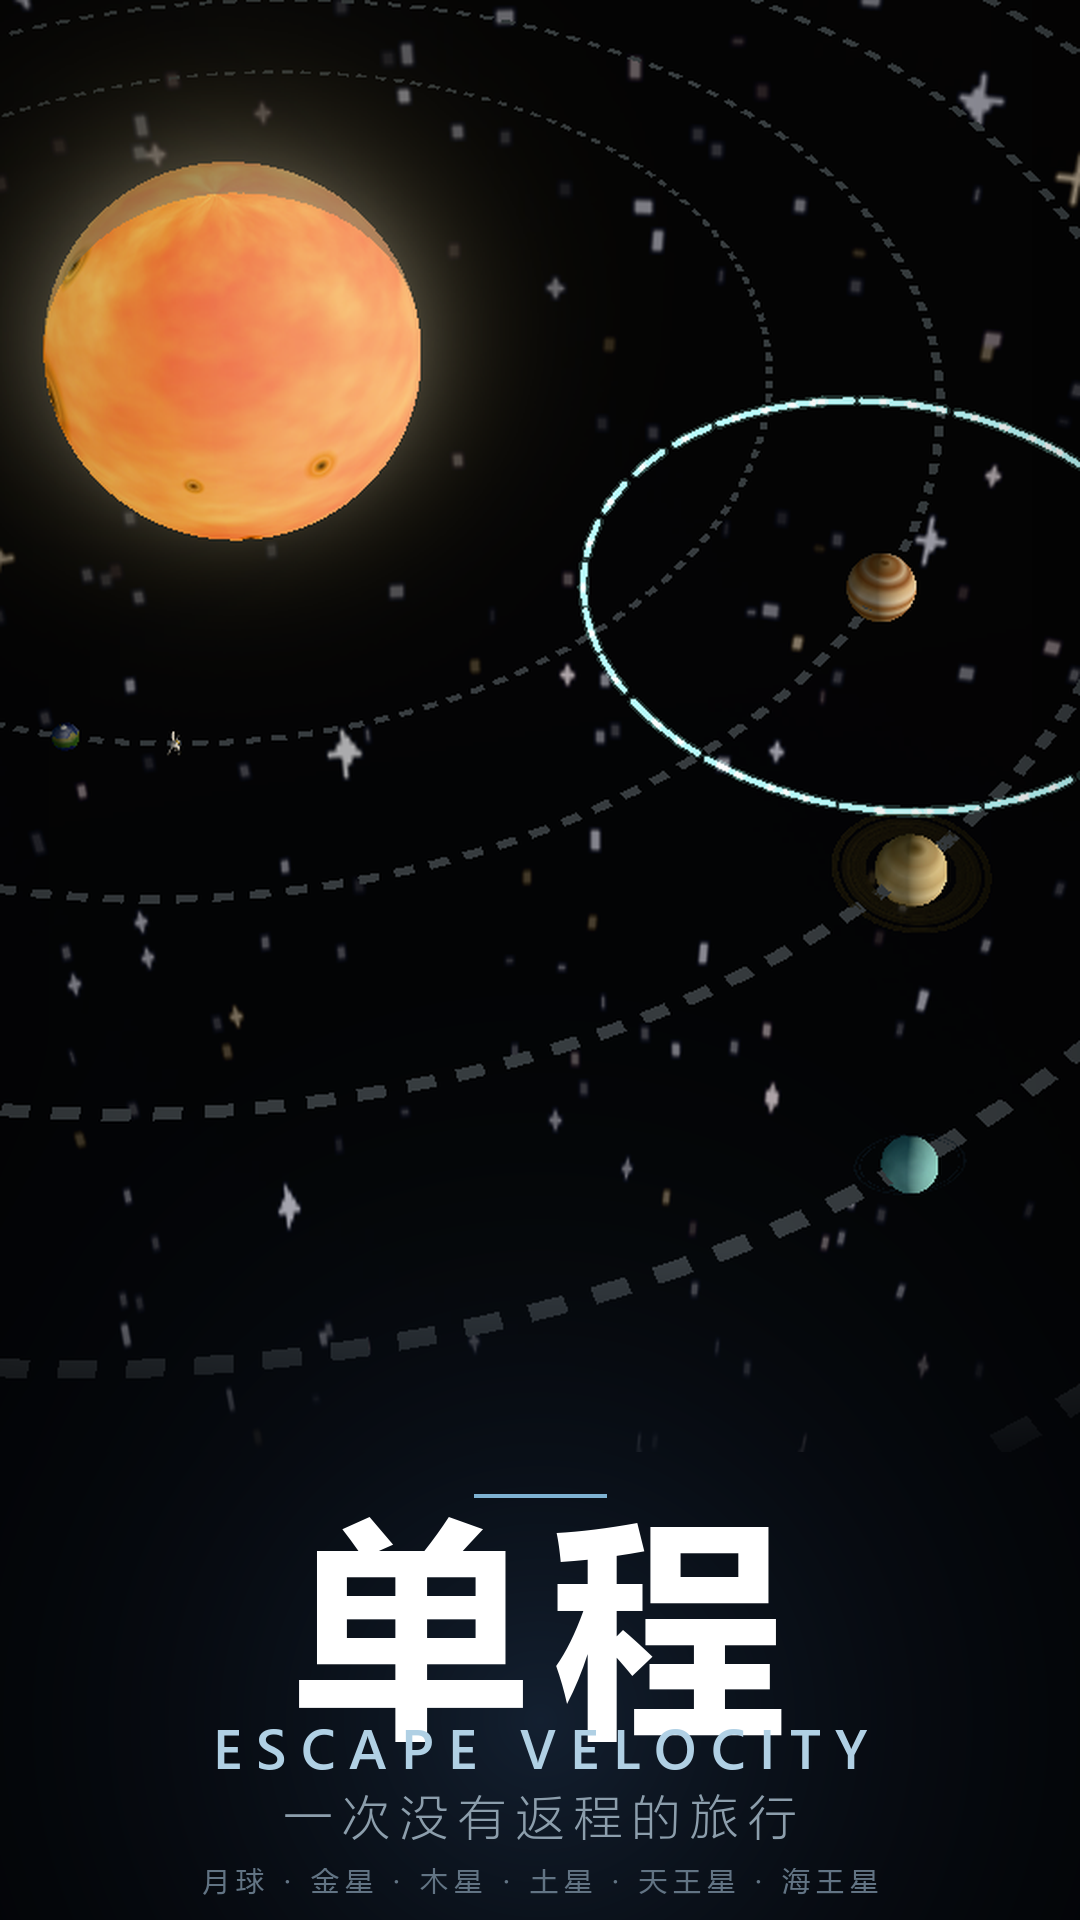
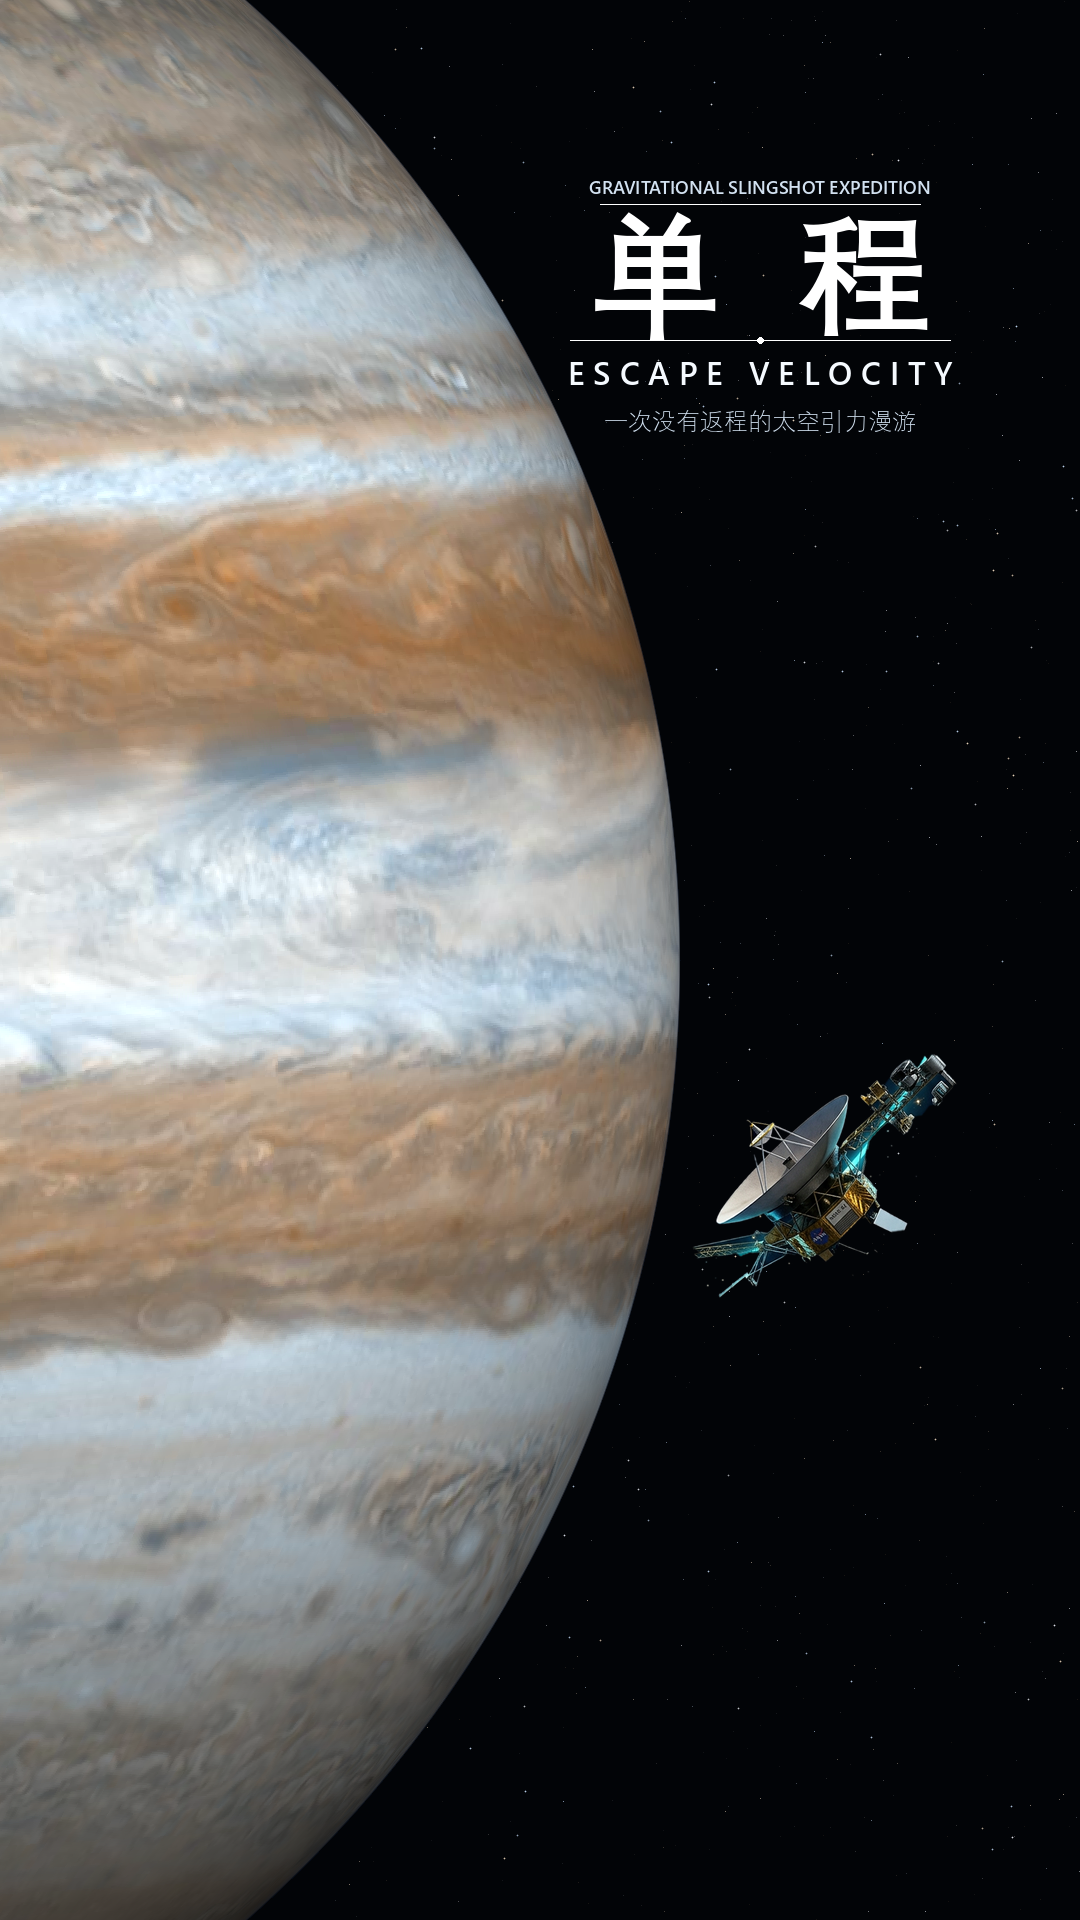
chore: preserve submission artwork previews

diff --git a/.agent/plan/PROGRESS.md b/.agent/plan/PROGRESS.md
@@ -400,3 +400,9 @@ git show <commit>:.agent/plan/PROGRESS.md
 - **已验证**：全量构建 60/60，Lua 比对 60 相同 / 0 不同；活引擎新鲜 UnitRunner 为 15 模块通过、0 失败，共 648 检查。生成约 22 MiB 的官方 HTML 包，运行时 1.9.3、91 个游戏文件；ZIP CRC、95 个内嵌资源的大小与 SHA256、HTML loader 语法检查全部通过。测试、开发依赖和编辑器文件不进入作品包。
 - **未验证**：原 Web IDE 的导出按钮流程未成功复验；自动浏览器工具禁止打开 file://，因此本版 HTML 的启动、手机输入和听音仍需实际浏览器复测。构建产物留在本地 build，不入 Git。
 - **Git 整理**：封面 PNG 与图标 JPG 预览副本一并保存；过时的 `gen_audio.py` 和未使用的 `bgm_deep_space.wav` 保留本地并加入精确本地忽略规则，不运行、不删除。
+
+## 2026-09-29 · 素材副本归档与工作区收尾
+
+- 导出工具、标签类型修复、土星测试及文档已提交 `e5431d4`。
+- 保存既有素材预览副本：`submission/cover-1080x1920.png`（1080×1920）及 `submission/icon-1024.jpg`（1024×1024），正式比赛素材仍为 README 指向的 JPG 封面和 PNG 图标。
+- HTML 包与测试产物位于忽略目录；两份过时音频草稿保留本地且精确忽略。没有删除用户文件、改动 LICENSE 或推送远端。
